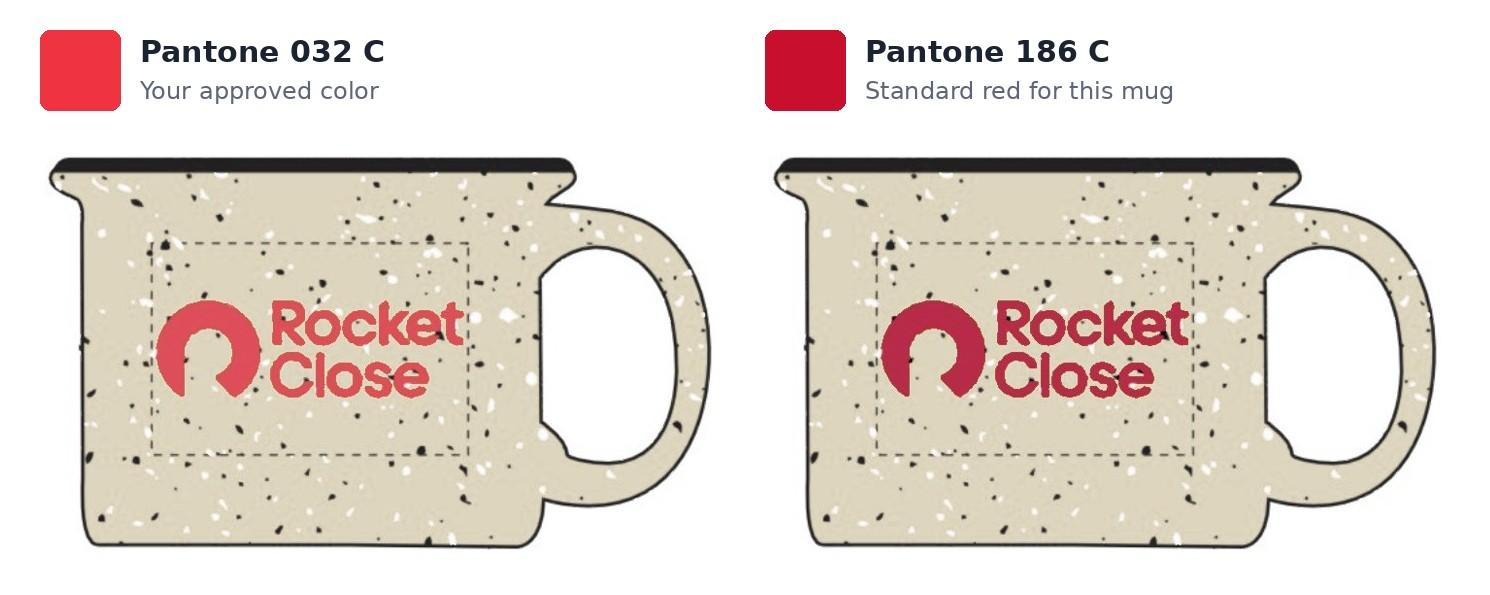
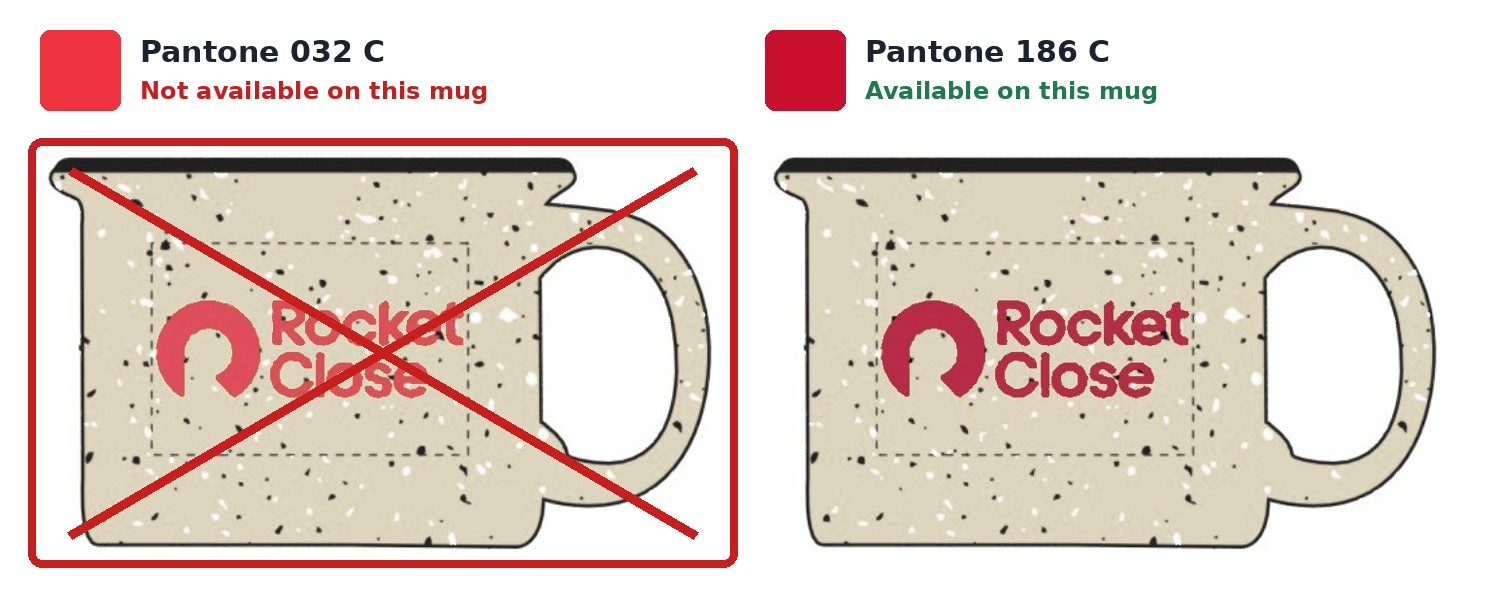
Rocket: mark Maize mug in 032 as not available
Claude-Session: https://claude.ai/code/session_01V3xXrQ8QGXuGtcjEiJdWGR

diff --git a/p/34fb96234786/index.html b/p/34fb96234786/index.html
@@ -135,7 +135,7 @@ const API = "https://script.google.com/macros/s/AKfycbxVLQipOIyMsk7jnbk66CC6cBPz
 const ORDER = { id: "rocket-3479-combined", name: "Rocket Fall Gifts #3479" };
 const SWAP_INTRO = "The item selected for your order is not available in the requested quantity, and we sincerely apologize for the inconvenience. Would you be willing to switch to one of the options below? Please choose the one you prefer, or let us know if none of these will work. Thank you so much for your understanding.";
 const ITEMS = [
-  {"id": "mug-update", "group": "update", "orderId": "rocket-3479-34fb96234786", "name": "Mug Update", "specs": [], "optFit": true, "optRows": true, "attention": "Our production team let us know that the Maize mug you approved can't be printed in an exact match of your Pantone 032 red. The standard red for this mug is Pantone 186, which is a slightly deeper red. You can see the two colors side by side below. Please choose one mug. There are 3 options.", "img": "img/ede9f11b8e.jpg", "options": [{"key": "A", "label": "Maize mug with Pantone 186 red", "img": "img/c15c6fd8bc.jpg"}, {"key": "B", "label": "Laser engraved mug", "img": "img/116bcdfebd.jpg"}, {"key": "C", "label": "Brown mug with Pantone 032 red", "img": "img/d193b86f93.jpg"}]},
+  {"id": "mug-update", "group": "update", "orderId": "rocket-3479-34fb96234786", "name": "Mug Update", "specs": [], "optFit": true, "optRows": true, "attention": "Our production team let us know that the Maize mug you approved can't be printed in an exact match of your Pantone 032 red. The standard red for this mug is Pantone 186, which is a slightly deeper red. You can see the two colors side by side below. The Maize mug in Pantone 032 is no longer an option. Please choose one of the 3 mugs below.", "img": "img/ede9f11b8e.jpg", "options": [{"key": "A", "label": "Maize mug with Pantone 186 red", "img": "img/c15c6fd8bc.jpg"}, {"key": "B", "label": "Laser engraved mug", "img": "img/116bcdfebd.jpg"}, {"key": "C", "label": "Brown mug with Pantone 032 red", "img": "img/d193b86f93.jpg"}]},
   { id:"mug", group:"main", orderId:"rocket-3479-34fb96234786", name:"Branded Mug", specs:[], optFit:true, optRows:true, options:[{key:"A", label:"Orange", img:"img/46e8deaa6c.jpg"},{key:"B", label:"Maize", img:"img/304af55db4.jpg"}] },
   {"id": "cookie-swap", "name": "Choose a replacement", "specs": [], "optFit": true, "options": [{"key": "A", "label": "Falling Leaves Duo Sampler - Assorted Cookies", "desc": "Good news! Your original choice is available. We just don't have enough in one box design to fill your full order, so your order would include a mix of the box designs shown here.", "img": "img/732452c09d.jpg", "mix": [["Hello, Sunshine! Duo Sampler - Iced Cookies", 81], ["Fall Plaid Duo Sampler - Iced Cookies", 50], ["Fall Sunflower Duo Sampler - Assorted Cookies", 250], ["Fall Plaid Duo Sampler - Assorted Cookies", 75], ["Falling Leaves Duo Sampler - Assorted Cookies", 50]]}, {"key": "B", "label": "Gourmet Marzipan Thanksgiving Pumpkin + Leaves Candy Duets", "desc": "Handmade almond marzipan pair: one embossed pumpkin and one hand-dusted maple leaf, each about 1.5\" wide. Each piece is individually wrapped and set in a clear favor box tied with a gold ribbon. Gluten-free and kosher. Contains tree nuts (almonds).", "size": "0.88 oz", "img": "img/fbaecae0cc.jpg"}, {"key": "C", "label": "Fall Soft Batch Cookie: Pumpkin Butterscotch & Caramel Apple", "desc": "Soft, moist bakery-style cookies in a festive gift box. These are two different cookies, and each box is one flavor. Please choose Pumpkin Butterscotch, Caramel Apple, or a mix of both.", "size": "6 oz", "flavors": ["Pumpkin Butterscotch", "Caramel Apple", "Mix of both"], "img": "img/59ad5324a0.jpg"}], "group": "swap", "orderId": "rocket-3479-cookies-97ee84a5f149", "swap": true}
 ];
